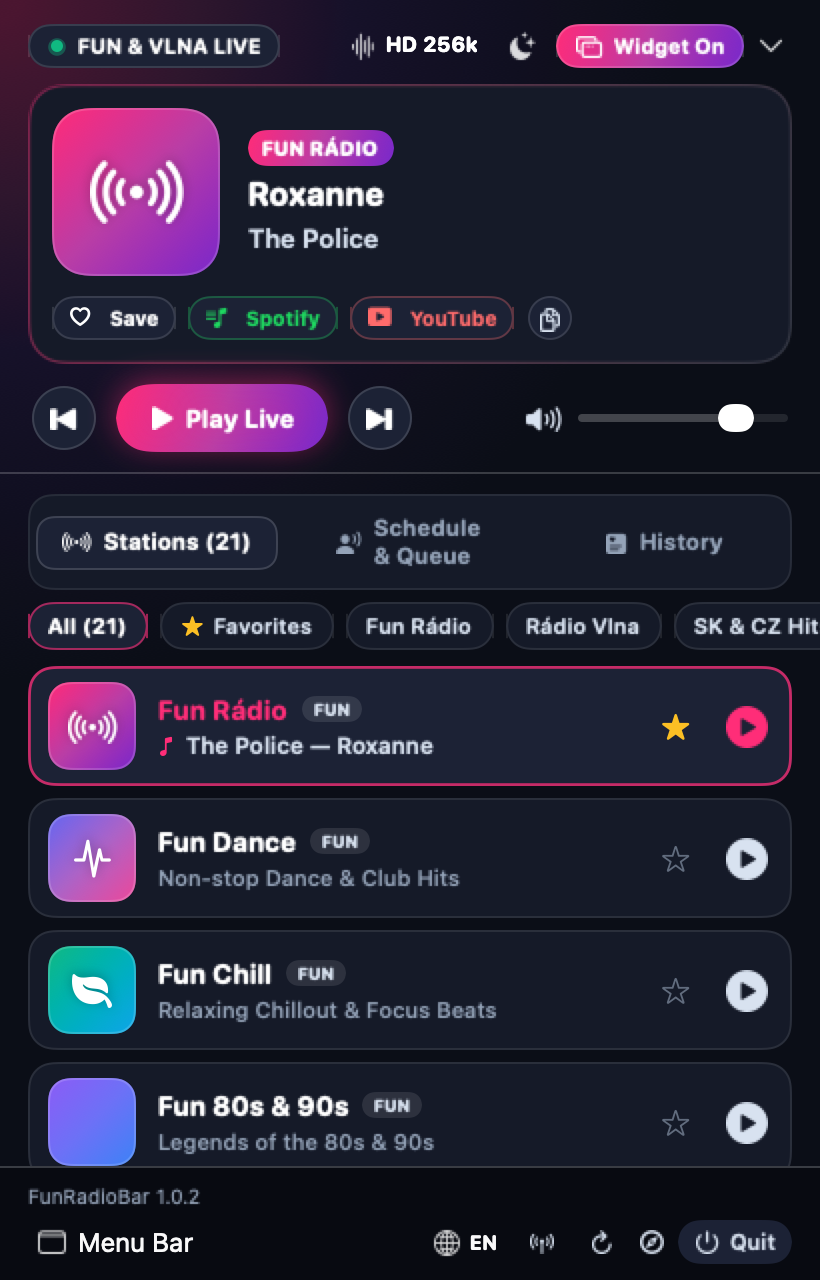
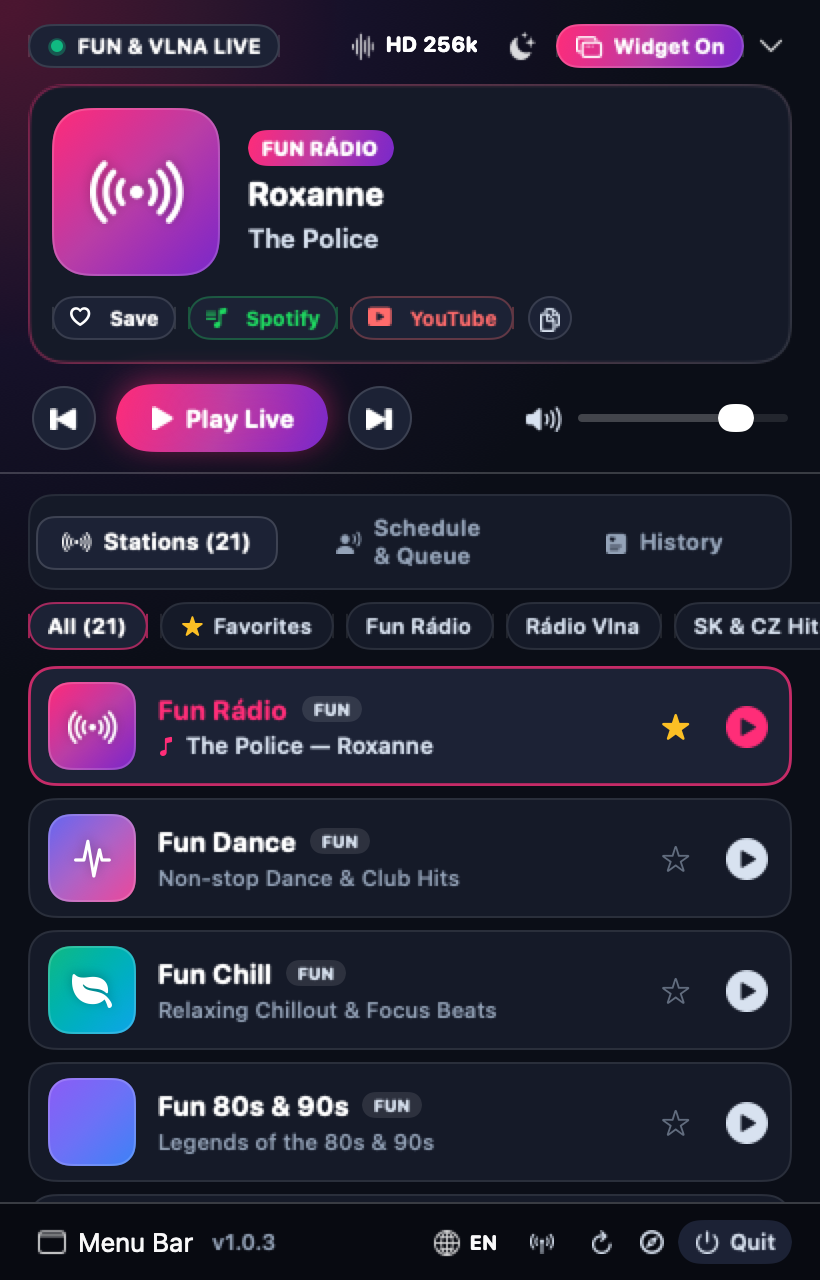
Fit the version and update control into the bottom bar

Changed region(s): [[0.0305, 0.9062, 0.9756, 1.0]]

diff --git a/Sources/FunRadioBar/Views/MenuBarContentView.swift b/Sources/FunRadioBar/Views/MenuBarContentView.swift
@@ -118,22 +118,10 @@ struct MenuBarContentView: View {
                         .font(.caption)
                         .foregroundStyle(textSecondary)
                 }
-                VStack(alignment: .leading, spacing: 5) {
-                    HStack(spacing: 8) {
-                        Text("FunRadioBar \(AppUpdates.installedVersion)")
-                            .font(.caption)
-                            .foregroundStyle(textMuted)
-                        if let version = updates.availableVersion {
-                            Button(l10n.updateAvailable(version)) { updates.check() }
-                                .controlSize(.small)
-                                .buttonStyle(.bordered)
-                        }
-                    }
-                    footerBar
-                }
-                .padding(.horizontal, 14)
-                .padding(.vertical, 8)
-                .background(Color(hex: 0x080A11))
+                footerBar
+                    .padding(.horizontal, 14)
+                    .padding(.vertical, 8)
+                    .background(Color(hex: 0x080A11))
             }
         }
         .frame(width: 410, height: 640)
@@ -1153,6 +1141,22 @@ struct MenuBarContentView: View {
             .accessibilityLabel(l10n.menuBarLabelPickerTitle)
             .accessibilityValue(l10n.menuBarLabelModeName(manager.menuBarLabelMode))
             .controlHelp("\(l10n.menuBarLabelPickerTitle) · \(l10n.menuBarLabelModeName(manager.menuBarLabelMode))")
+
+            Text("v\(AppUpdates.installedVersion)")
+                .foregroundStyle(textMuted)
+                .fixedSize()
+            if let version = updates.availableVersion {
+                Button {
+                    updates.check()
+                } label: {
+                    Image(systemName: "arrow.down.circle.fill")
+                        .foregroundStyle(textPrimary)
+                        .frame(width: 22, height: 22)
+                        .background(cardElevated, in: Circle())
+                }
+                .accessibilityLabel(l10n.updateAvailable(version))
+                .controlHelp(l10n.updateAvailable(version))
+            }
 
             Spacer(minLength: 0)
 
